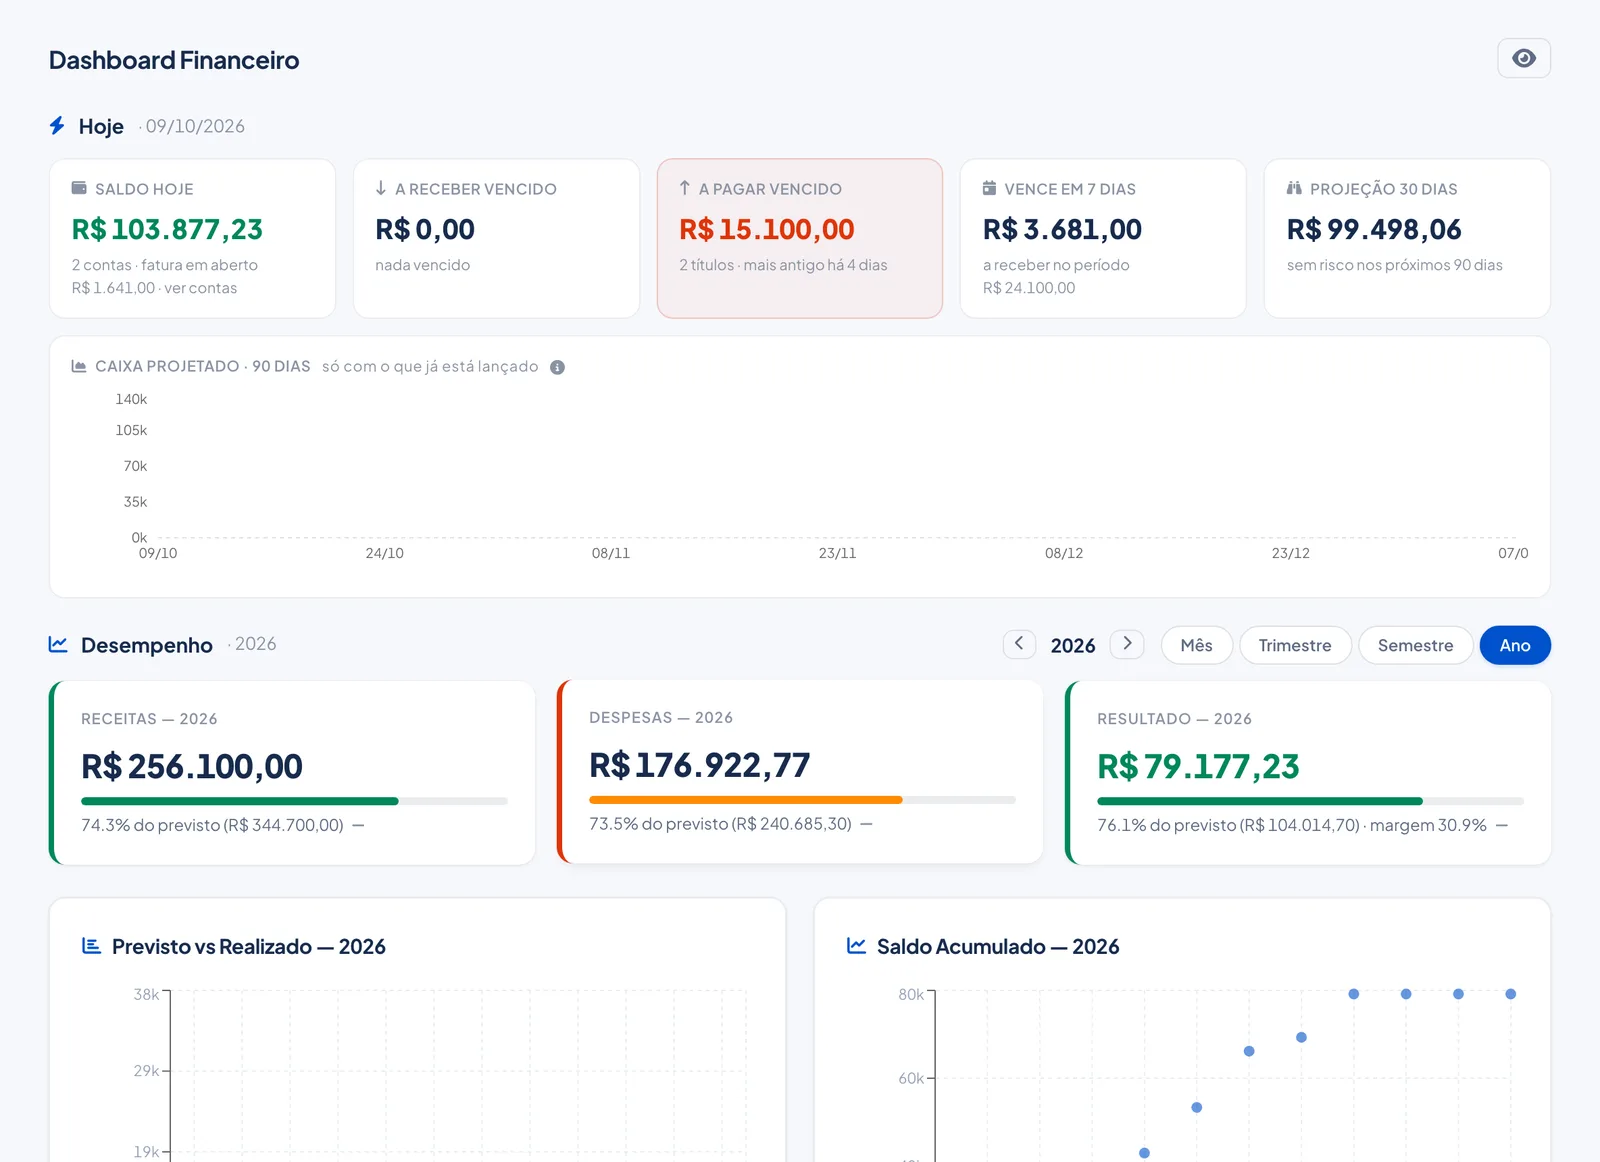
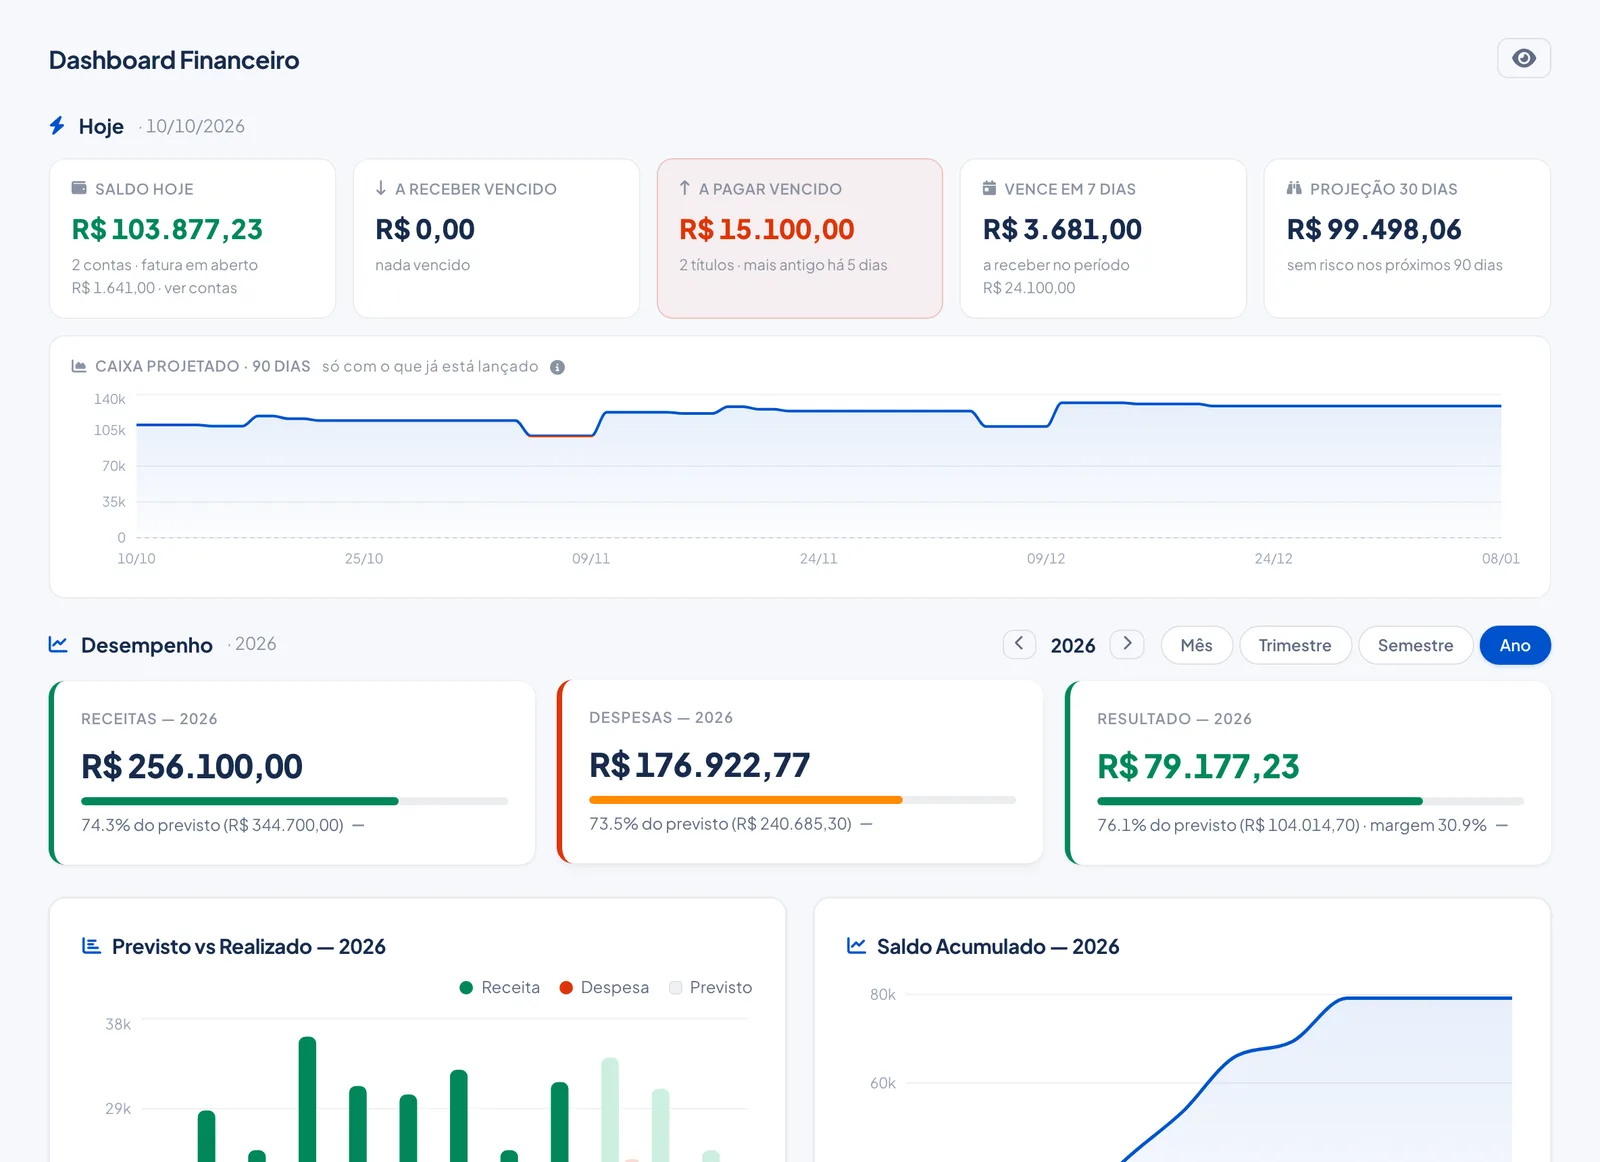
content(prints): telas do sistema atualizadas
Prints da lista de Funcionalidades recapturados no ambiente de demo com a
versão atual do sistema (gráficos novos no Dashboard e no Fluxo de Caixa,
Centros de Custo sem gráfico). As imagens das páginas de Fluxo de Caixa,
DRE e Conciliação, que ainda eram da interface antiga, foram refeitas no
visual atual (1600x790).

diff --git a/app/conciliacao-bancaria/page.js b/app/conciliacao-bancaria/page.js
@@ -239,7 +239,7 @@ export default function ConciliacaoBancariaPage() {
             <Image
               src="/feat-conciliacao.webp"
               width={1600}
-              height={792}
+              height={790}
               sizes="(min-width: 768px) 720px, calc(100vw - 48px)"
               alt="Tela de conciliação do Numin com o progresso do mês, transações do extrato pendentes e sugestões de lançamento de alta confiança para confirmar"
               className="block h-auto w-full"

diff --git a/app/fluxo-de-caixa/page.js b/app/fluxo-de-caixa/page.js
@@ -234,7 +234,7 @@ export default function FluxoDeCaixaPage() {
             <Image
               src="/feat-fluxo.webp"
               width={1600}
-              height={789}
+              height={790}
               sizes="(min-width: 768px) 720px, calc(100vw - 48px)"
               alt="Fluxo de caixa do Numin com receitas e despesas por categoria mês a mês, mostrando valores realizados e previstos e o total de cada linha"
               className="block h-auto w-full"

diff --git a/app/dre/page.js b/app/dre/page.js
@@ -243,7 +243,7 @@ export default function DrePage() {
             <Image
               src="/feat-relatorios.webp"
               width={1600}
-              height={794}
+              height={790}
               sizes="(min-width: 768px) 720px, calc(100vw - 48px)"
               alt="DRE no Numin com receitas e despesas por categoria, colunas de previsto, realizado, variação em reais e em percentual e análise vertical"
               className="block h-auto w-full"
